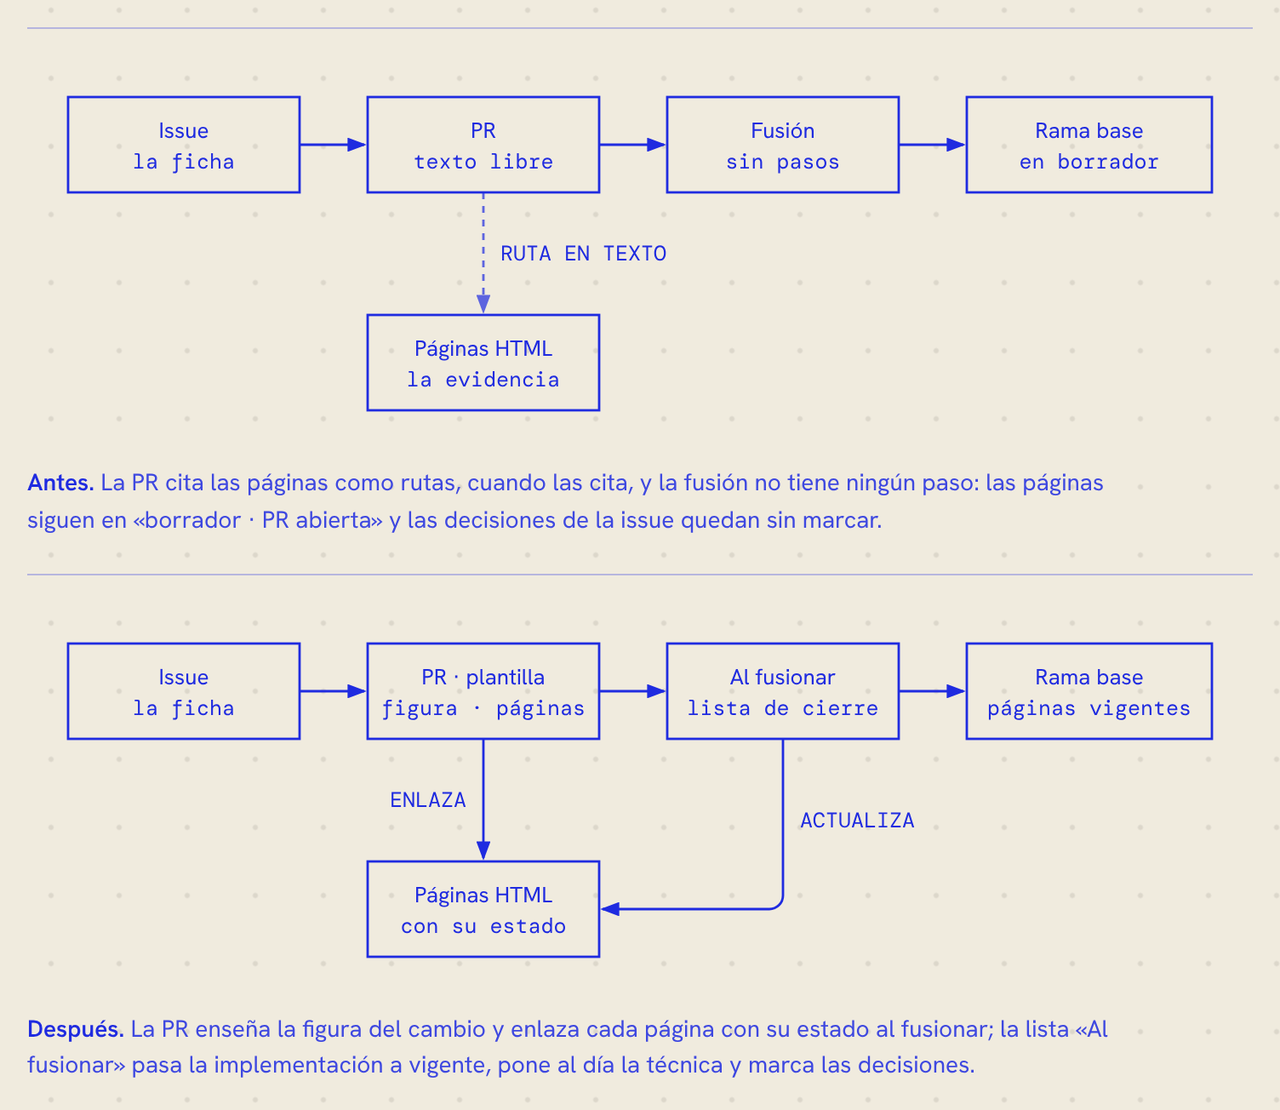
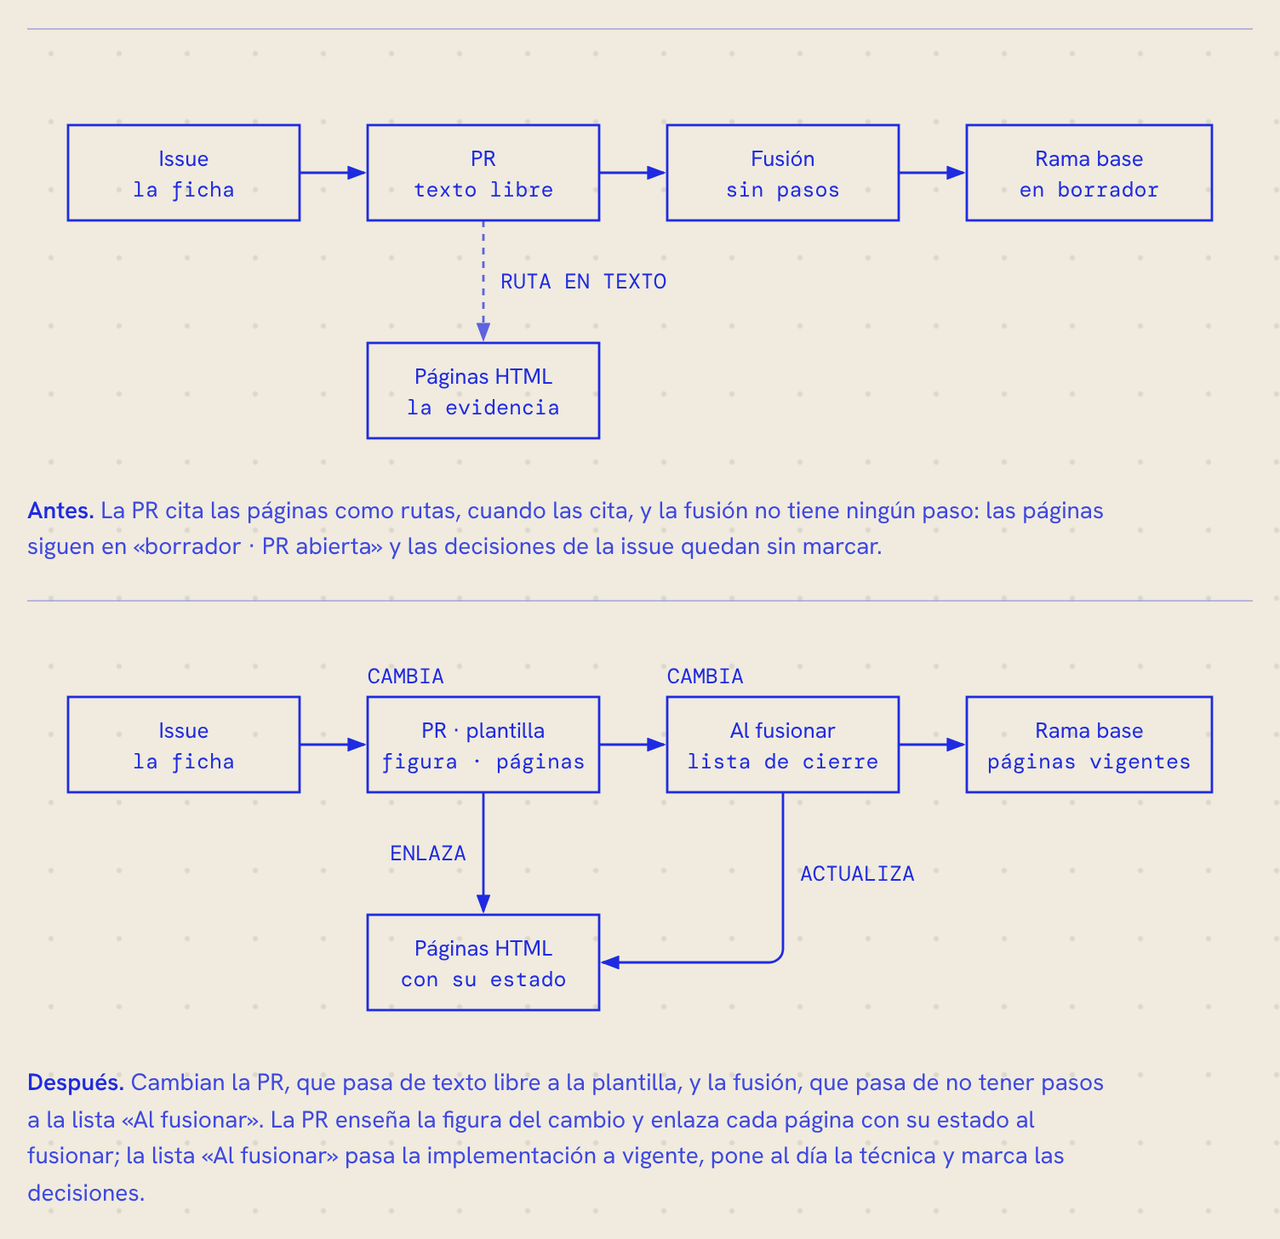
Estándar para dibujar un cambio: change-figures.md y figure-png
Qué forma según el tamaño del cambio, las marcas NUEVO, CAMBIA y SE VA en la
tinta, cuánto texto cabe en una caja y el PNG para la PR. La página de la
plantilla de PR lo aplica. delphos-check pasa a ser ejecutable.

Claude-Session: https://claude.ai/code/session_016zUdZZmARB22mS14D5UYgX

diff --git a/docs/registro/metodo/2026-11-09-implementacion-plantilla-pr/plantilla-pr.html b/docs/registro/metodo/2026-11-09-implementacion-plantilla-pr/plantilla-pr.html
@@ -86,70 +86,72 @@
         </table>
 
         <h2 id="arquitectura">Arquitectura: antes y después</h2>
-        <p>Es un cambio grande del recorrido de una ficha, así que se comparan las dos versiones con la misma disposición: arriba la issue, la PR, la fusión y la rama base; debajo, las páginas HTML que lo documentan.</p>
+        <p>Es un cambio grande del recorrido de una ficha, así que se comparan las dos versiones con la misma disposición: arriba la issue, la PR, la fusión y la rama base; debajo, las páginas HTML que lo documentan. Las figuras siguen <a href="https://github.com/AS-prog/asprog-design-system/blob/main/plugins/documentation/skills/method/reference/change-figures.md">change-figures.md</a>: el antes sin marcas y, en el después, «CAMBIA» sobre las dos piezas que cambian.</p>
 
         <figure class="figwrap">
-          <svg viewBox="0 0 720 216" role="img" aria-labelledby="pr-before-title pr-before-desc">
+          <svg viewBox="0 0 720 232" role="img" aria-labelledby="pr-before-title pr-before-desc">
             <title id="pr-before-title">Antes: la PR cita las páginas como texto</title>
             <desc id="pr-before-desc">La issue abre una PR de texto libre que cita las páginas HTML como rutas sin enlace. La fusión no tiene pasos, así que en la rama base las páginas quedan en borrador.</desc>
             <defs>
               <marker id="pr-before-arrow" markerWidth="8" markerHeight="6" refX="7" refY="3" orient="auto"><polygon class="d-bar" points="0 0, 8 3, 0 6"/></marker>
             </defs>
-            <line class="d-line" x1="160" y1="44" x2="198" y2="44" marker-end="url(#pr-before-arrow)"/>
-            <line class="d-line" x1="336" y1="44" x2="374" y2="44" marker-end="url(#pr-before-arrow)"/>
-            <line class="d-line" x1="512" y1="44" x2="550" y2="44" marker-end="url(#pr-before-arrow)"/>
-            <line class="d-dash" x1="268" y1="72" x2="268" y2="142" marker-end="url(#pr-before-arrow)"/>
-            <text class="d-tm" x="278" y="112">RUTA EN TEXTO</text>
-            <rect class="d-box" x="24" y="16" width="136" height="56"/>
-            <text class="d-t d-mid" x="92" y="40">Issue</text>
-            <text class="d-tm d-mid" x="92" y="58">la ficha</text>
-            <rect class="d-fill" x="200" y="16" width="136" height="56"/>
-            <text class="d-t d-mid" x="268" y="40">PR</text>
-            <text class="d-tm d-mid" x="268" y="58">texto libre</text>
-            <rect class="d-fill" x="376" y="16" width="136" height="56"/>
-            <text class="d-t d-mid" x="444" y="40">Fusión</text>
-            <text class="d-tm d-mid" x="444" y="58">sin pasos</text>
-            <rect class="d-box" x="552" y="16" width="144" height="56"/>
-            <text class="d-t d-mid" x="624" y="40">Rama base</text>
-            <text class="d-tm d-mid" x="624" y="58">en borrador</text>
-            <rect class="d-box" x="200" y="144" width="136" height="56"/>
-            <text class="d-t d-mid" x="268" y="168">Páginas HTML</text>
-            <text class="d-tm d-mid" x="268" y="186">la evidencia</text>
+            <line class="d-line" x1="160" y1="60" x2="198" y2="60" marker-end="url(#pr-before-arrow)"/>
+            <line class="d-line" x1="336" y1="60" x2="374" y2="60" marker-end="url(#pr-before-arrow)"/>
+            <line class="d-line" x1="512" y1="60" x2="550" y2="60" marker-end="url(#pr-before-arrow)"/>
+            <line class="d-dash" x1="268" y1="88" x2="268" y2="158" marker-end="url(#pr-before-arrow)"/>
+            <text class="d-tm" x="278" y="128">RUTA EN TEXTO</text>
+            <rect class="d-box" x="24" y="32" width="136" height="56"/>
+            <text class="d-t d-mid" x="92" y="56">Issue</text>
+            <text class="d-tm d-mid" x="92" y="74">la ficha</text>
+            <rect class="d-box" x="200" y="32" width="136" height="56"/>
+            <text class="d-t d-mid" x="268" y="56">PR</text>
+            <text class="d-tm d-mid" x="268" y="74">texto libre</text>
+            <rect class="d-box" x="376" y="32" width="136" height="56"/>
+            <text class="d-t d-mid" x="444" y="56">Fusión</text>
+            <text class="d-tm d-mid" x="444" y="74">sin pasos</text>
+            <rect class="d-box" x="552" y="32" width="144" height="56"/>
+            <text class="d-t d-mid" x="624" y="56">Rama base</text>
+            <text class="d-tm d-mid" x="624" y="74">en borrador</text>
+            <rect class="d-box" x="200" y="160" width="136" height="56"/>
+            <text class="d-t d-mid" x="268" y="184">Páginas HTML</text>
+            <text class="d-tm d-mid" x="268" y="202">la evidencia</text>
           </svg>
           <figcaption><strong>Antes.</strong> La PR cita las páginas como rutas, cuando las cita, y la fusión no tiene ningún paso: las páginas siguen en «borrador · PR abierta» y las decisiones de la issue quedan sin marcar.</figcaption>
         </figure>
 
         <figure class="figwrap">
-          <svg viewBox="0 0 720 216" role="img" aria-labelledby="pr-after-title pr-after-desc">
+          <svg viewBox="0 0 720 232" role="img" aria-labelledby="pr-after-title pr-after-desc">
             <title id="pr-after-title">Después: la PR sigue la plantilla</title>
             <desc id="pr-after-desc">La issue abre una PR con la plantilla, que enseña la figura del cambio y enlaza las páginas HTML. La lista Al fusionar actualiza las páginas, así que en la rama base quedan vigentes.</desc>
             <defs>
               <marker id="pr-after-arrow" markerWidth="8" markerHeight="6" refX="7" refY="3" orient="auto"><polygon class="d-bar" points="0 0, 8 3, 0 6"/></marker>
             </defs>
-            <line class="d-line" x1="160" y1="44" x2="198" y2="44" marker-end="url(#pr-after-arrow)"/>
-            <line class="d-line" x1="336" y1="44" x2="374" y2="44" marker-end="url(#pr-after-arrow)"/>
-            <line class="d-line" x1="512" y1="44" x2="550" y2="44" marker-end="url(#pr-after-arrow)"/>
-            <line class="d-line" x1="268" y1="72" x2="268" y2="142" marker-end="url(#pr-after-arrow)"/>
-            <text class="d-tm d-end" x="258" y="112">ENLAZA</text>
-            <path class="d-line" d="M444 72 V164 a8 8 0 0 1 -8 8 H338" marker-end="url(#pr-after-arrow)"/>
-            <text class="d-tm" x="454" y="124">ACTUALIZA</text>
-            <rect class="d-box" x="24" y="16" width="136" height="56"/>
-            <text class="d-t d-mid" x="92" y="40">Issue</text>
-            <text class="d-tm d-mid" x="92" y="58">la ficha</text>
-            <rect class="d-box" x="200" y="16" width="136" height="56"/>
-            <text class="d-t d-mid" x="268" y="40">PR · plantilla</text>
-            <text class="d-tm d-mid" x="268" y="58">figura · páginas</text>
-            <rect class="d-box" x="376" y="16" width="136" height="56"/>
-            <text class="d-t d-mid" x="444" y="40">Al fusionar</text>
-            <text class="d-tm d-mid" x="444" y="58">lista de cierre</text>
-            <rect class="d-box" x="552" y="16" width="144" height="56"/>
-            <text class="d-t d-mid" x="624" y="40">Rama base</text>
-            <text class="d-tm d-mid" x="624" y="58">páginas vigentes</text>
-            <rect class="d-box" x="200" y="144" width="136" height="56"/>
-            <text class="d-t d-mid" x="268" y="168">Páginas HTML</text>
-            <text class="d-tm d-mid" x="268" y="186">con su estado</text>
+            <line class="d-line" x1="160" y1="60" x2="198" y2="60" marker-end="url(#pr-after-arrow)"/>
+            <line class="d-line" x1="336" y1="60" x2="374" y2="60" marker-end="url(#pr-after-arrow)"/>
+            <line class="d-line" x1="512" y1="60" x2="550" y2="60" marker-end="url(#pr-after-arrow)"/>
+            <line class="d-line" x1="268" y1="88" x2="268" y2="158" marker-end="url(#pr-after-arrow)"/>
+            <text class="d-tm d-end" x="258" y="128">ENLAZA</text>
+            <path class="d-line" d="M444 88 V180 a8 8 0 0 1 -8 8 H338" marker-end="url(#pr-after-arrow)"/>
+            <text class="d-tm" x="454" y="140">ACTUALIZA</text>
+            <rect class="d-box" x="24" y="32" width="136" height="56"/>
+            <text class="d-t d-mid" x="92" y="56">Issue</text>
+            <text class="d-tm d-mid" x="92" y="74">la ficha</text>
+            <text class="d-tm" x="200" y="24">CAMBIA</text>
+            <rect class="d-fill" x="200" y="32" width="136" height="56"/>
+            <text class="d-t d-mid" x="268" y="56">PR · plantilla</text>
+            <text class="d-tm d-mid" x="268" y="74">figura · páginas</text>
+            <text class="d-tm" x="376" y="24">CAMBIA</text>
+            <rect class="d-fill" x="376" y="32" width="136" height="56"/>
+            <text class="d-t d-mid" x="444" y="56">Al fusionar</text>
+            <text class="d-tm d-mid" x="444" y="74">lista de cierre</text>
+            <rect class="d-box" x="552" y="32" width="144" height="56"/>
+            <text class="d-t d-mid" x="624" y="56">Rama base</text>
+            <text class="d-tm d-mid" x="624" y="74">páginas vigentes</text>
+            <rect class="d-box" x="200" y="160" width="136" height="56"/>
+            <text class="d-t d-mid" x="268" y="184">Páginas HTML</text>
+            <text class="d-tm d-mid" x="268" y="202">con su estado</text>
           </svg>
-          <figcaption><strong>Después.</strong> La PR enseña la figura del cambio y enlaza cada página con su estado al fusionar; la lista «Al fusionar» pasa la implementación a vigente, pone al día la técnica y marca las decisiones.</figcaption>
+          <figcaption><strong>Después.</strong> Cambian la PR, que pasa de texto libre a la plantilla, y la fusión, que pasa de no tener pasos a la lista «Al fusionar». La PR enseña la figura del cambio y enlaza cada página con su estado al fusionar; la lista «Al fusionar» pasa la implementación a vigente, pone al día la técnica y marca las decisiones.</figcaption>
         </figure>
 
         <h2 id="como-funciona">Cómo funciona</h2>

diff --git a/plugins/documentation/skills/method/reference/change-figures.md b/plugins/documentation/skills/method/reference/change-figures.md
@@ -1,0 +1,68 @@
+# Cómo se dibuja un cambio
+
+Las figuras que enseñan cómo cambia el desarrollo se dibujan siempre igual, para que quien revisa una página o una PR lea cualquier cambio sin aprender un dibujo nuevo. Las dibuja la skill `diagram` (plugin `diagrams`) con las clases `.d-*`. Esta guía fija lo que es propio de un cambio: qué forma se elige, cómo se marca lo que cambia, cuánto texto cabe y cómo llega la figura a la PR.
+
+## Qué forma
+
+| El cambio | Forma | Dónde |
+|---|---|---|
+| Grande: varias piezas, otra forma de conectarse | **Antes y después**: dos figuras, una encima de otra, con la misma disposición | Página de implementación, sección «Arquitectura: antes y después» |
+| Acotado: una pieza nueva o una que cambia en un solo sitio | **Lo nuevo marcado** sobre el mapa actual de la página técnica | Página de implementación, sección «Arquitectura» |
+| Sin piezas que se muevan: valores, configuración, textos | **Tabla** antes → después; sin figura | Página de implementación o PR |
+| Una migración con muchas piezas que aparecen, se van y se reconectan | Tipo **architecture delta** de la skill `diagram`, con su registro de cambios | Página de diseño o de implementación |
+
+Antes y después va en vertical y no en paralelo: cada figura conserva su ancho de 560 a 760, se lee en el móvil sin desplazarse de lado y se exporta como una sola imagen.
+
+## Antes y después
+
+1. **Dibuja primero el después**, y copia sus coordenadas al antes. Las piezas que sobreviven ocupan el mismo sitio en las dos figuras; una pieza que se mueve sin que eso sea el cambio confunde.
+2. **El mismo `viewBox`** en las dos. Si el antes tiene menos piezas, deja el hueco vacío: el hueco es parte de la comparación.
+3. **El antes va sin marcas**, salvo lo que desaparece. Las marcas del cambio van en el después.
+4. **Ids con prefijo propio** en cada figura (`<slug>-before-…`, `<slug>-after-…`), también en los marcadores de flecha.
+5. **El pie empieza por la palabra**: `<strong>Antes.</strong>` y `<strong>Después.</strong>`, y dice en una frase qué falla y qué lo arregla.
+
+## Las marcas
+
+Una sola tinta: lo que cambia lo dice una palabra, y el relleno y el trazo la acompañan. El verde de solución y los colores de rama no se usan en estas figuras.
+
+| Marca | Dónde | Cómo |
+|---|---|---|
+| **NUEVO** | Después | La caja en `d-fill` y la palabra en `d-tm` justo encima (`y` de la caja − 8), alineada a su izquierda |
+| **CAMBIA** | Después | Igual que NUEVO; el pie dice qué era antes y qué es ahora |
+| **SE VA** | Antes | La caja en `d-dash` y la palabra encima; en el después, el hueco |
+| **Conexión que cambia** | Antes y después | La de antes en `d-dash` con su etiqueta; la de después en `d-line` con la nueva |
+| **Sin conectar** | Después | `NUEVO · SIN CONECTAR` encima de la caja, sin flechas hacia ella |
+
+Como mucho **dos piezas marcadas** por figura (el presupuesto de nodos focales). Si hay más, el cambio es grande: se parte en dos figuras o se cuenta con architecture delta.
+
+## Cuánto texto cabe
+
+Las cajas miden de la rejilla de 4 px (`layout-budget.md` de la skill `diagram`). El ancho de una caja sale de su texto más largo:
+
+| Texto | Clase | Por carácter | Caja de 136 | Caja de 160 |
+|---|---|---|---|---|
+| Nombre de la pieza | `d-t` | ≈ 8 px | 15 caracteres | 18 caracteres |
+| Detalle debajo del nombre | `d-tm` | ≈ 8 px | 15 caracteres | 18 caracteres |
+| Etiqueta de flecha o de marca | `d-tm`, mayúsculas | ≈ 8 px | 14 caracteres como máximo | — |
+
+Regla: **ancho de la caja ≥ caracteres × 8 + 16**. Si no cabe, se acorta el texto antes que ensanchar la caja; un detalle que no cabe en 18 caracteres va al pie.
+
+## Cómo llega a la PR
+
+GitHub no muestra un HTML, así que la PR enseña la figura como imagen:
+
+```bash
+node <plugin>/scripts/figure-png <página.html> <carpeta>/figuras/antes-despues.png
+```
+
+`figure-png` abre la página en modo claro, recorta desde la primera `figure.figwrap` hasta la última (o solo la que se pida con `--figure N`, contando desde 1) y guarda un PNG a doble resolución. Necesita Playwright con Chromium; si no está, lo dice y sale con 1. La imagen se regenera cada vez que cambia la figura y entra en el mismo commit.
+
+En la PR se enlaza con `https://github.com/<owner>/<repo>/blob/<rama>/<ruta>.png?raw=true`, que funciona también en repos privados.
+
+## Lista
+
+- [ ] La forma de la tabla de arriba, según el tamaño del cambio.
+- [ ] Antes y después con el mismo `viewBox` y las piezas que sobreviven en el mismo sitio.
+- [ ] Cada marca con su palabra; dos piezas marcadas como mucho.
+- [ ] Ningún texto se sale de su caja (ancho ≥ caracteres × 8 + 16).
+- [ ] La página pasa `delphos-check` y el PNG de `figuras/` está al día.

diff --git a/plugins/documentation/skills/method/SKILL.md b/plugins/documentation/skills/method/SKILL.md
@@ -12,7 +12,7 @@ Cada proyecto se documenta igual: un **repo de gestión** con el diseño, las de
 1. **Busca antes de crear.** Mira `diseno/`, `decisiones/`, `registro/`, `tecnica/` y `.scratch/`. Si un documento ya cubre el tema, amplíalo; si es fechado, añade una nota fechada al final. Hecho cuando puedes nombrar el documento que amplías o afirmar que no hay ninguno.
 2. **Elige el tipo** en [reference/document-types.md](reference/document-types.md). El tipo fija la carpeta, el nombre, si es vivo o fechado y sus secciones.
 3. **Escribe el `.md`** con las secciones del tipo, en su orden, y la voz de [reference/voice.md](reference/voice.md). El `.md` es siempre la fuente.
-4. **Si el tipo lleva página HTML**, hazla con la skill `document` y llévala al sitio con la skill `site`. Las páginas de implementación y las técnicas tienen guía propia: [reference/implementation-pages.md](reference/implementation-pages.md) y [reference/technical-pages.md](reference/technical-pages.md).
+4. **Si el tipo lleva página HTML**, hazla con la skill `document` y llévala al sitio con la skill `site`. Las páginas de implementación y las técnicas tienen guía propia: [reference/implementation-pages.md](reference/implementation-pages.md) y [reference/technical-pages.md](reference/technical-pages.md). Una figura que enseña un cambio se dibuja según [reference/change-figures.md](reference/change-figures.md).
 5. **Si el cambio toca código**, cumple [reference/alignment.md](reference/alignment.md): el diseño y el código van en ramas con el mismo nombre, y cada commit de código tiene su reflejo en el diseño. La PR sigue [reference/pull-requests.md](reference/pull-requests.md): enseña cómo cambia el desarrollo y enlaza sus páginas.
 6. **Revisa** con la lista final.
 
@@ -46,6 +46,7 @@ La estructura entera, con el `AGENTS.md` de partida, está en [reference/folders
 - [ ] No duplica un documento existente (paso 1).
 - [ ] Carpeta, nombre y secciones del tipo; ficha técnica (`doc-meta`) si es fechado.
 - [ ] Voz: conclusión primero, cifras reales o marcadas con `≈`, comandos copiables.
+- [ ] Si enseña un cambio: la figura sigue `change-figures.md` y su PNG está en `figuras/`.
 - [ ] Si lleva página: pasa `delphos-check`, está en el mapa del sitio y se ve bien en claro y en oscuro.
 - [ ] Si toca código: el diseño tiene su reflejo en la misma rama.
 - [ ] Si abre una PR: sigue la plantilla, enlaza sus páginas y dice en qué estado quedan al fusionar.

diff --git a/plugins/documentation/skills/method/reference/pull-requests.md b/plugins/documentation/skills/method/reference/pull-requests.md
@@ -28,11 +28,13 @@ GitHub la pone en cada PR nueva. Un agente que abre la PR con una herramienta qu
 
 ## Cómo se enseña el cambio
 
+El estándar completo, con las marcas, el texto que cabe en cada caja y la exportación a PNG, está en [change-figures.md](change-figures.md). En corto:
+
 - **Un cambio grande** (varias piezas, otra forma de conectarse) enseña el diagrama de antes y el de después con la misma disposición, uno encima del otro, en la página de implementación.
 - **Un cambio acotado** (una pieza nueva, sin conectar o en un solo sitio) enseña el mapa actual de la página técnica con lo nuevo marcado: relleno (`d-fill`) y la etiqueta «NUEVO» en `d-tm`. En la tinta: el verde de solución es solo para la barra lateral y las ramas.
 - **Sin diagrama** (documentación, configuración) basta la tabla de páginas.
 
-La figura va también en la PR como imagen, para verla sin salir de GitHub: una captura PNG en `figuras/` de la carpeta de la página, enlazada con `…/blob/<rama>/<ruta>.png?raw=true` (funciona en repos privados). GitHub no muestra un HTML: los enlaces a las páginas abren el código fuente, y por eso la PR dice cómo abrirlas.
+La figura va también en la PR como imagen, para verla sin salir de GitHub: un PNG en `figuras/` de la carpeta de la página, hecho con `scripts/figure-png`, enlazado con `…/blob/<rama>/<ruta>.png?raw=true` (funciona en repos privados). GitHub no muestra un HTML: los enlaces a las páginas abren el código fuente, y por eso la PR dice cómo abrirlas.
 
 ## El estado de cada página
 

diff --git a/CHANGELOG.md b/CHANGELOG.md
@@ -6,9 +6,12 @@ El formato sigue [Keep a Changelog](https://keepachangelog.com/es-ES/1.1.0/) y l
 
 ### Añadido
 - Plantilla de PR (`plugins/documentation/templates/pull_request_template.md`), que un proyecto copia a `.github/pull_request_template.md`. Lleva una sección «Cómo cambia el desarrollo» con la figura del cambio como imagen y la tabla de páginas con su estado al fusionar, y una lista «Al fusionar».
+- Guía `skills/method/reference/change-figures.md`: el estándar para dibujar un cambio. Qué forma según el tamaño (antes y después en vertical, lo nuevo marcado, tabla o architecture delta), las marcas NUEVO, CAMBIA y SE VA en la tinta, cuánto texto cabe en una caja (ancho ≥ caracteres × 8 + 16) y cómo llega la figura a la PR.
+- Script `scripts/figure-png`: guarda las figuras de una página como PNG a doble resolución, todas o una con `--figure N`. Necesita Playwright.
 - Guía `skills/method/reference/pull-requests.md`: qué lleva la PR, cómo se enseña un cambio grande (antes y después) y uno acotado (lo nuevo marcado), y en qué estado queda cada página al fusionar.
 
 ### Cambiado
+- `scripts/delphos-check` tiene permiso de ejecución.
 - `document-types.md` apunta a la plantilla de PR en lugar de a una plantilla «de abajo» que no existía. La skill `method` la enlaza en el paso 5 y en la lista final.
 
 ## 0.9.0 · 2026-11-09

diff --git a/plugins/documentation/skills/method/reference/implementation-pages.md b/plugins/documentation/skills/method/reference/implementation-pages.md
@@ -21,7 +21,7 @@ registro/<tema>/<AAAA-MM-DD>-implementacion-<objeto>/
 | Cabecera | Título con lo implementado y, debajo, las fichas (`p.eyebrow`). Una frase de entrada y la ficha técnica: fecha, estado, fichas, código (`<repo>@hash`) y diseño (`Dnn`) |
 | Conclusión | Qué quedó implementado y qué falta, en un párrafo |
 | Qué entra en el cambio | Tabla ficha → qué aporta → commits de código |
-| Arquitectura | Un diagrama de todas las piezas, configuración incluida, y la tabla de puertos y adaptadores por entorno si los hay |
+| Arquitectura | Un diagrama de todas las piezas, configuración incluida, y la tabla de puertos y adaptadores por entorno si los hay. Si el cambio es grande, antes y después; si es acotado, lo nuevo marcado ([change-figures.md](change-figures.md)) |
 | Configuración | Los ficheros de configuración que usa, comentados, con sus campos y lo que se valida |
 | Cómo funciona | Una subsección por parte, cada una con su diagrama: qué recibe, qué hace y qué deja |
 | Dónde está en el código | Tabla parte → `<repo>:<ruta>` → decisión |

diff --git a/docs/registro/metodo/2026-11-09-implementacion-plantilla-pr/README.md b/docs/registro/metodo/2026-11-09-implementacion-plantilla-pr/README.md
@@ -15,7 +15,7 @@ El método `documentation` tiene una plantilla de PR (`plugins/documentation/tem
 
 ## Arquitectura: antes y después
 
-Es un cambio grande del recorrido de una ficha: las dos figuras tienen la misma disposición (issue, PR, fusión y rama base arriba; las páginas HTML debajo).
+Es un cambio grande del recorrido de una ficha: las dos figuras tienen la misma disposición (issue, PR, fusión y rama base arriba; las páginas HTML debajo). Las figuras siguen `change-figures.md`: el antes sin marcas y «CAMBIA» sobre la PR y la fusión en el después.
 
 - **Antes.** La PR es texto libre y cita las páginas como rutas, cuando las cita. Al fusionar no hay ningún paso, así que las páginas siguen en `borrador · PR abierta` y las decisiones de la issue quedan sin marcar.
 - **Después.** La PR sigue la plantilla: enseña la figura del cambio y enlaza cada página con su estado al fusionar. La lista «Al fusionar» pasa la implementación a `vigente`, pone al día la técnica y marca las decisiones.

diff --git a/plugins/documentation/README.md b/plugins/documentation/README.md
@@ -9,6 +9,7 @@ El método de documentación de los proyectos y su sistema de diseño (identidad
 | `skills/check/` | Las nueve reglas de `delphos-check`, para revisar a mano |
 | `skills/site/` | El sitio del proyecto: copia del sistema, páginas nuevas, portada y barra lateral |
 | `scripts/delphos-check` | Comprueba un HTML (Node, sin dependencias). El hook lo pasa a cada `.html` que Claude escribe |
+| `scripts/figure-png` | Guarda las figuras de una página como PNG, para enseñarlas en una PR (Node con Playwright) |
 | `scripts/site.py` | `vendor`, `new` y `build` del sitio (Python 3.11+ con `markdown`, o `uv`) |
 | `templates/` | Plantillas de página (implementación, técnica, diseño, documento), de `site.toml` y `home.md`, y de la descripción de una PR (`pull_request_template.md`) |
 | `system/` | Copia generada de `system/` del repo: no se edita aquí |
